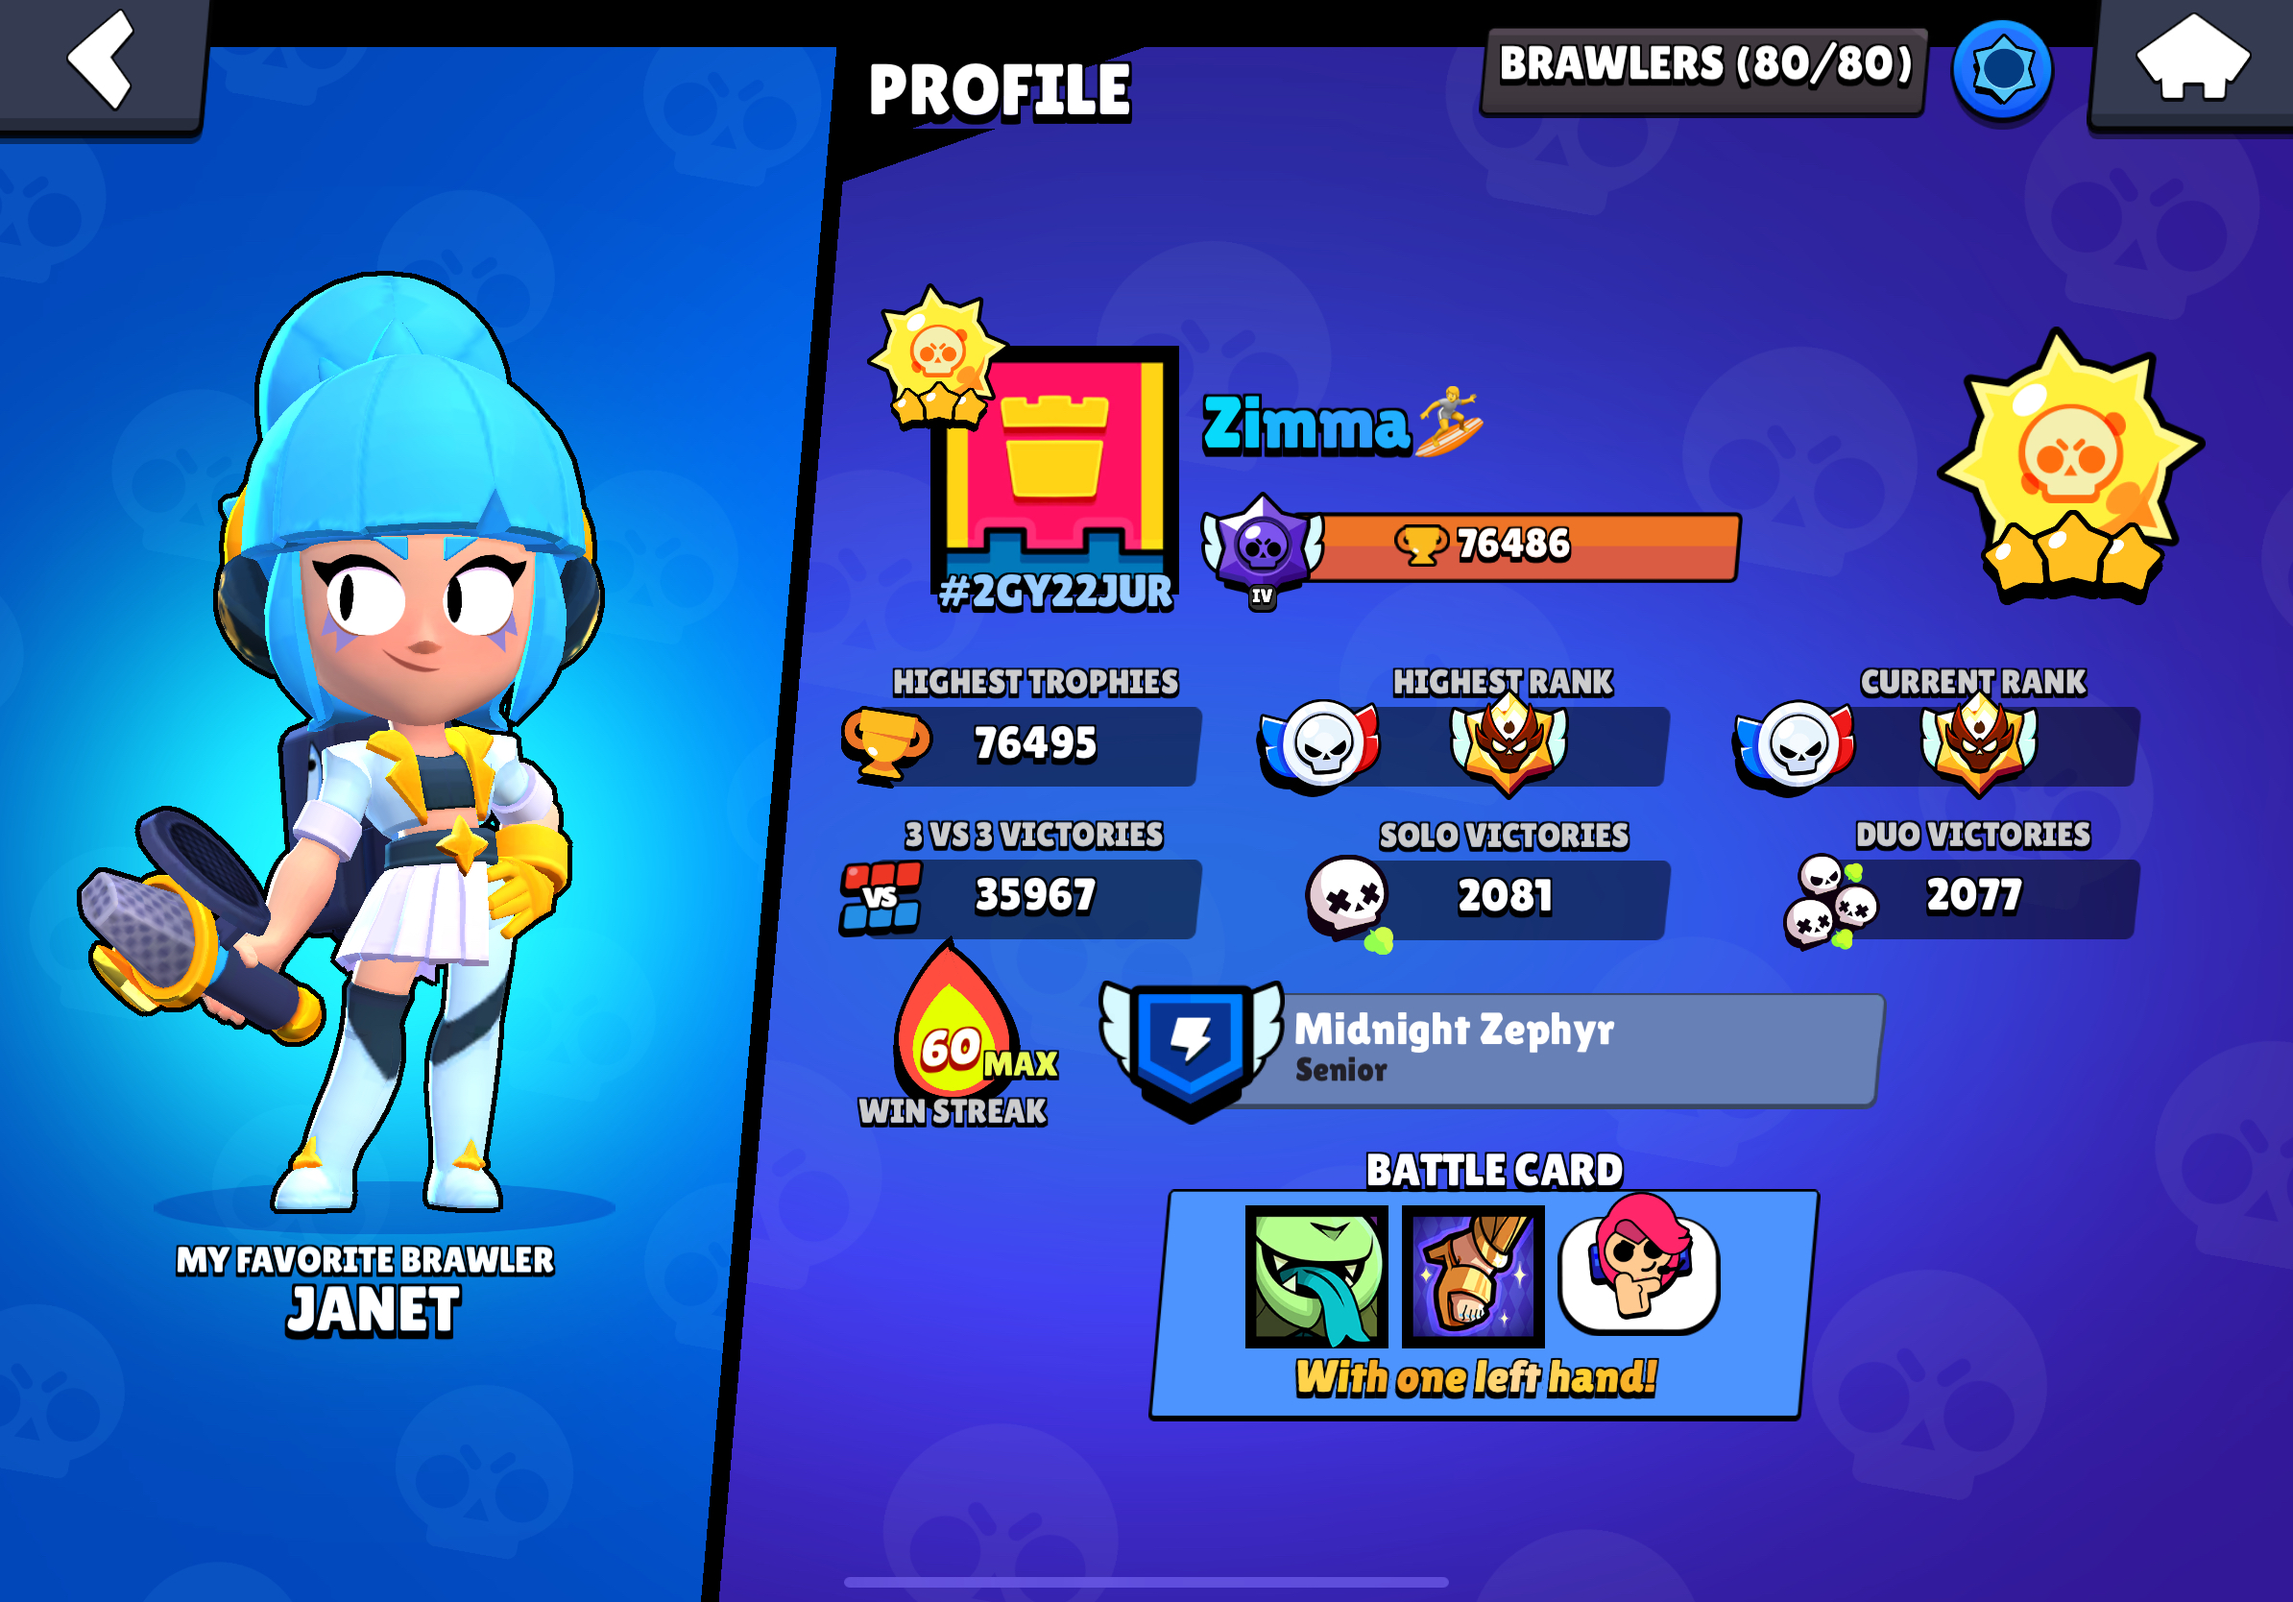
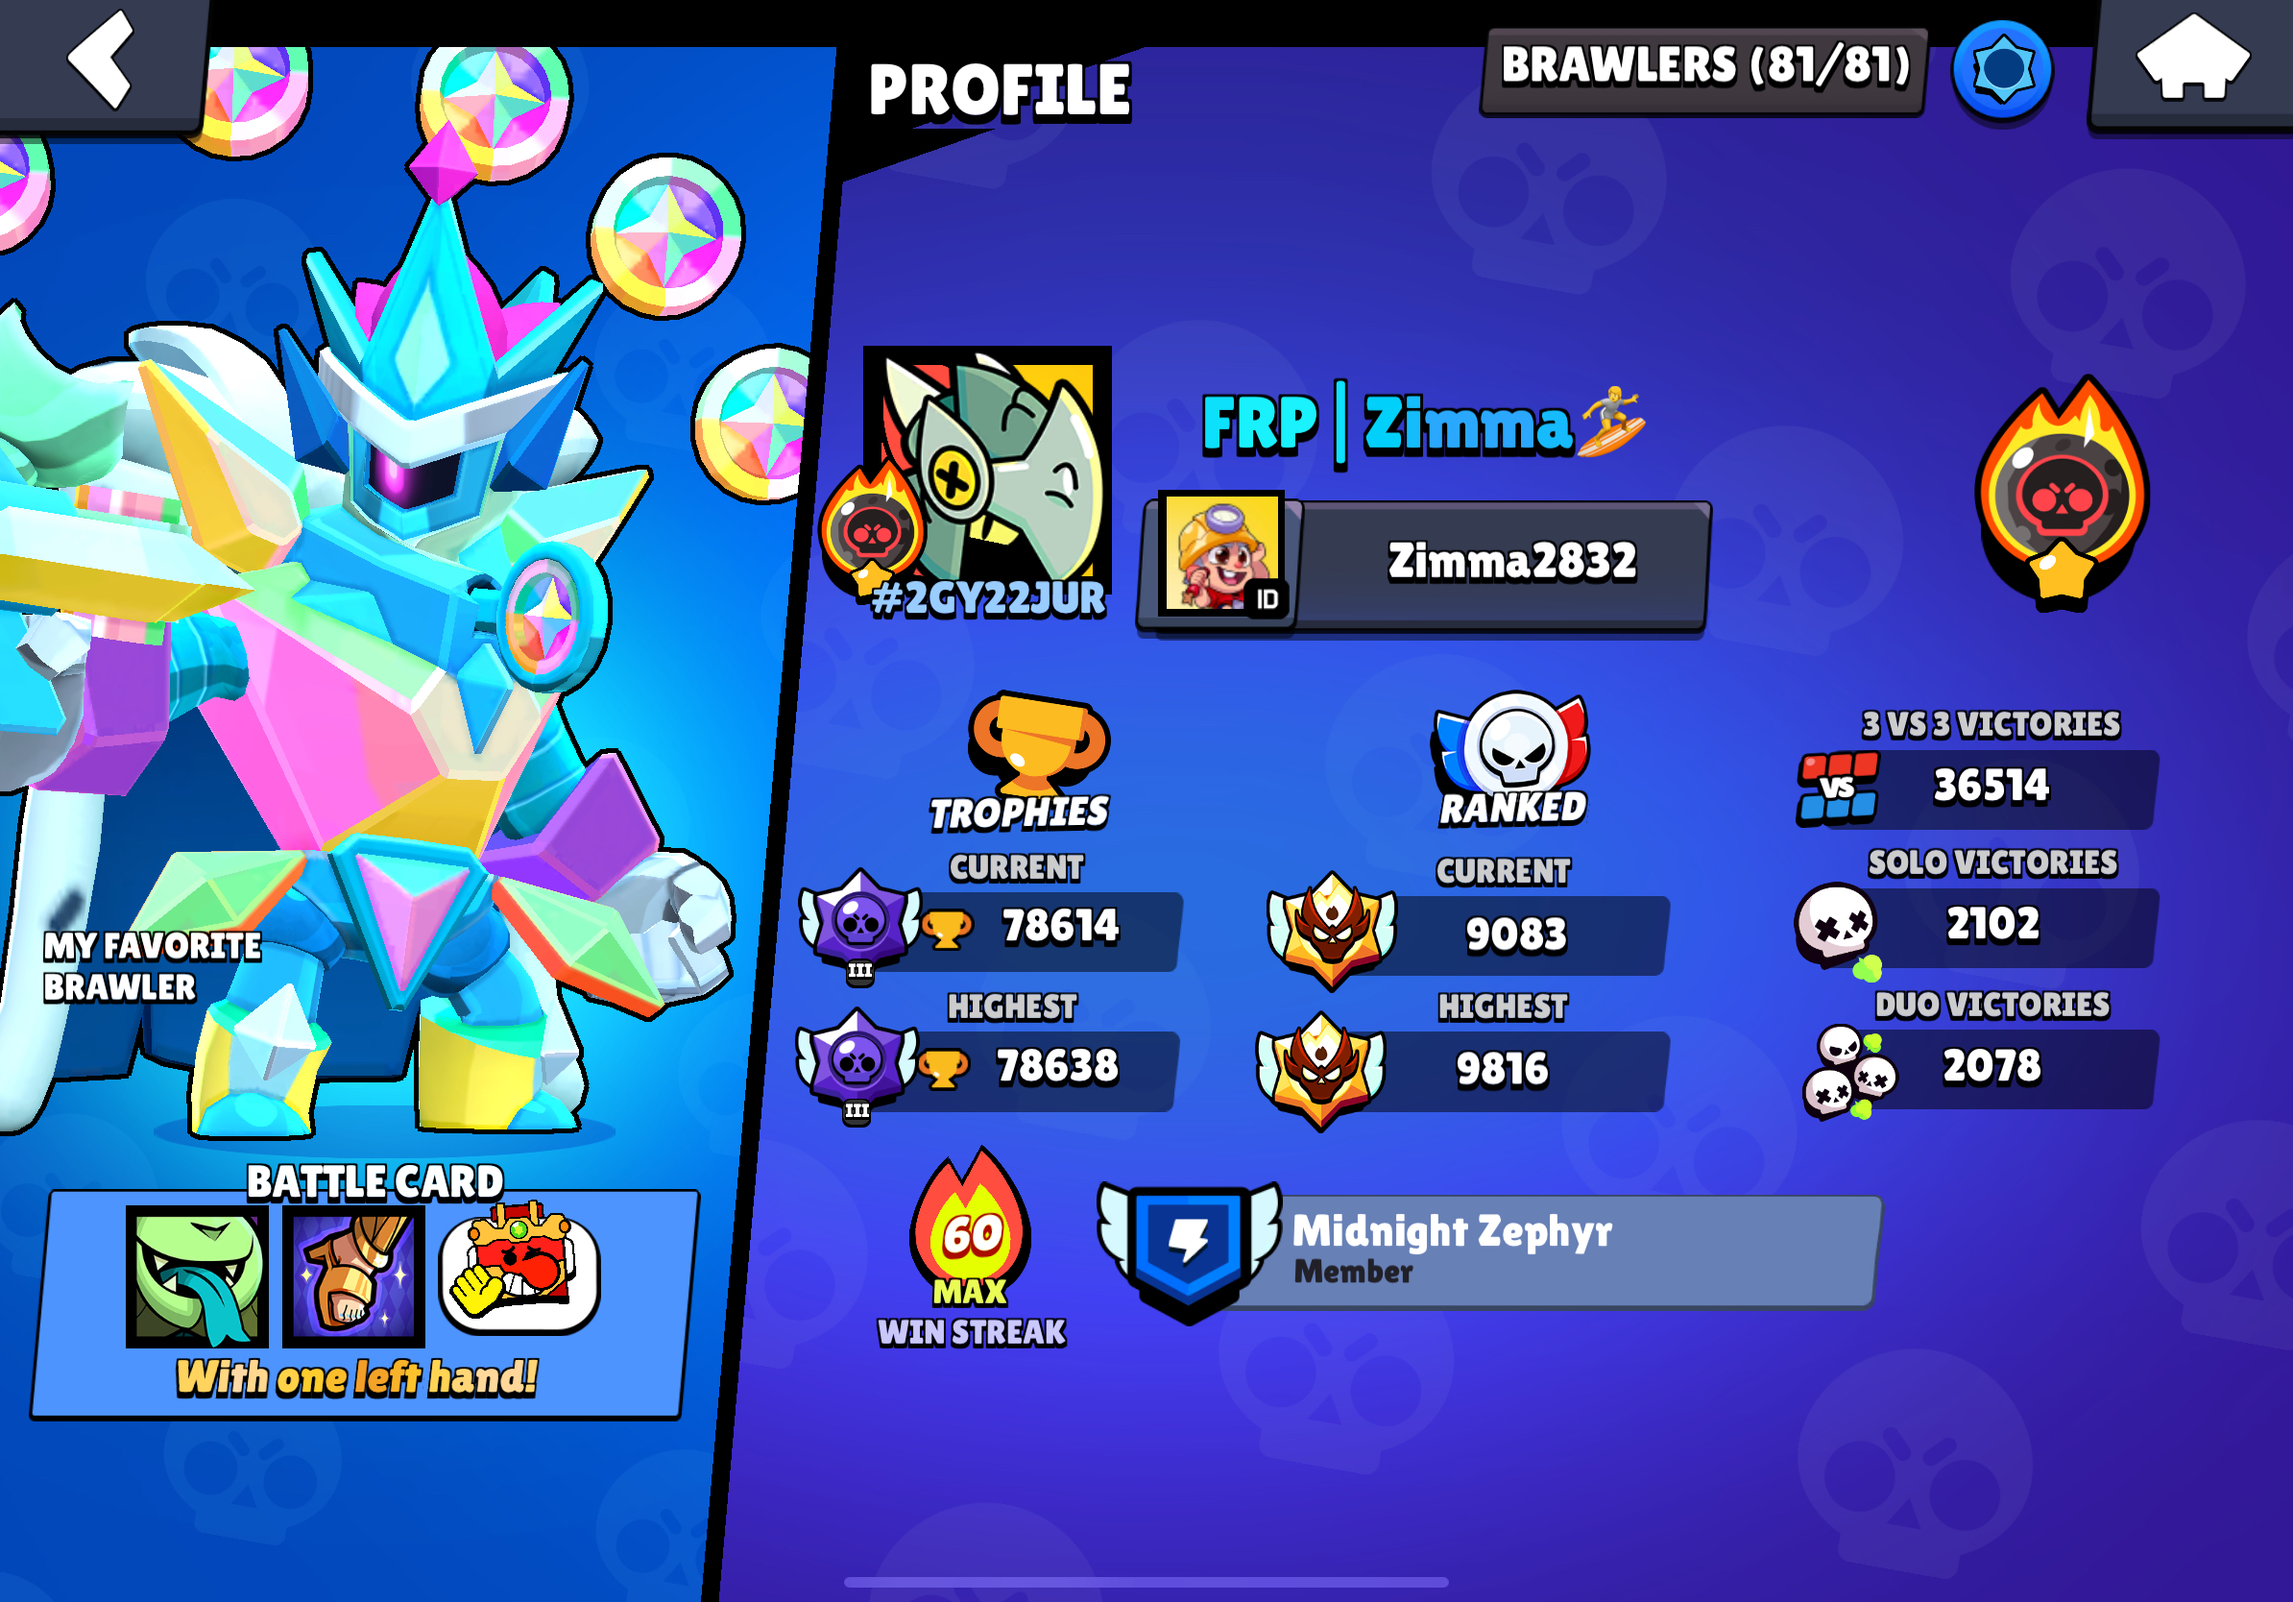
oppdaterte zimma bs profil og la til bakgrunn på zimma

diff --git a/docs/zimma.html b/docs/zimma.html
@@ -73,14 +73,19 @@
             Bakgrunn
         </h2>
         <p>
-            
-            Alle vet at Zimma var den 11. personen i Norge som lasta ned spillet, og ble nr1 i Norge bare noe timer etterpå
+            Zimma er en norsk Brawl Stars spiller fra Ålgård. Han startet å spille spillet i 2017, og har vært en viktig person i communitiet helt fra start.
+            Zimma har vært i nesten alle norske klubber og communities som har eksistert siden spillets start. Noen av de viktigste inkluderer <a href="midnight_zephyr.html">Midnight Zephyr</a>, 
+            Gizi Esports, Brawl Stars Norge, Unity Scndinavia og EtParGodeMenn. Han har også vært nummer 1 i Norge med både trofeer og i Power League, og vært aktiv innenfor 
+            Esport med flere forskjellige lag som har oppnådd top 8 i Europa. Zimma har også delatt på flere forskjellige Brawl Stars arrangement; Dreamhack Summer 2019,
+            World finals 2023, Nesbyen (2020, 2021 og 2024) og Vestre Slindre 2024.
+
         </p>
         <h2 id="Karriere">
             Karriere
         </h2>
         <p>
-           Startet 15. juni 2017, og allerede fra start var han best
+            Zimma lastet ned Brawl Stars 15. juni 2017, og var den 11. personen i Norge som begynte å spille Brawl Stars. Klokka 00:27 den 16. juni tok han over førsteplassen på
+            det norske leaderboardet
         </p>
         <h2 id="Prestasjoner">
             Prestasjoner
@@ -95,8 +100,8 @@
         </h2>
         <p>
             <figure class="bsprofil-container">
-                <img src="images/zimma_profil.jpg" alt="Unity Scndnavia" class="bsprofil">
-                <figcaption class="bsprofil-caption">Zimmas Brawl Stars profil - Juni 2024</figcaption>
+                <img src="images/zimma_profil.jpg" alt="Screenshot av Zimmas BS profil" class="bsprofil">
+                <figcaption class="bsprofil-caption">Zimmas Brawl Stars profil - Juli 2024</figcaption>
             </figure>
         </p>
     </div>
